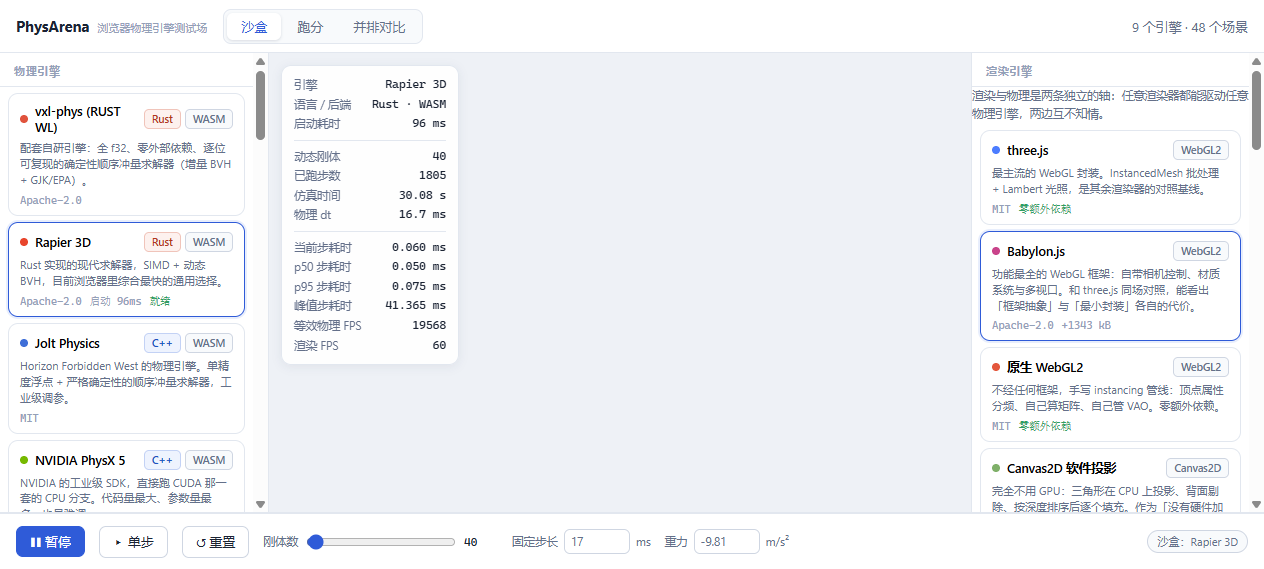
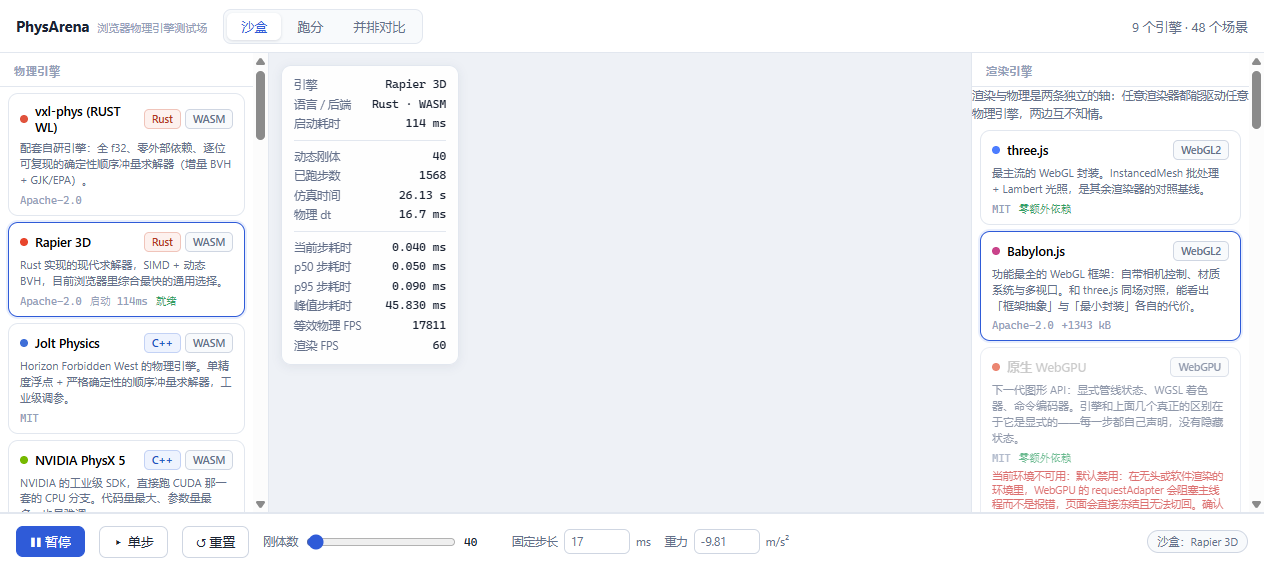
chore(render): Babylon 因不渲染几何默认禁用；补对比图与可复用拼图脚本
Babylon 的运行时状态已逐项确认正常（画布尺寸、scene.render() 确实执行、
scene.isReady()/mesh.isReady()/materialReady 全为 true、getActiveMeshes=2、
layerMask 与相机匹配、thin instance 计数正确），但画面只有清屏色。
已逐个排除 runRenderLoop 空循环 / preserveDrawingBuffer / 手动 clear 与
autoClear 的组合 / 显式 camera.viewport。改用 ?allowBabylon=1 显式启用，
默认禁用并在卡片上写明原因——不把坏掉的后端混进对比结果里。

- docs/renderer-matrix.png 重出为 8 个可用后端（禁用两个放上去只是空白格）
- scripts/build-renderer-sheet.py 收进仓库：按 id 收集 docs/r-<id>.png 拼图，
  缺图自动跳过并提示
- README 增加「渲染后端现状」：10 个实现、8 个可用、2 个禁用的原因与启用方式

最终清单：可用 three / webgl2 / webgl1 / points / wireframe / canvas2d / svg / css3d；
禁用 babylon / webgpu（均可通过 URL 参数启用）

diff --git a/src/render/engines/babylon.ts b/src/render/engines/babylon.ts
@@ -19,12 +19,47 @@ export const meta: RenderEngineMeta = {
   accent: '#c9438a',
   blurb: '功能最全的 WebGL 框架：自带相机控制、材质系统与多视口。和 three.js 同场对照，能看出「框架抽象」与「最小封装」各自的代价。',
   features: { instancing: true, lighting: true, antialias: true, scissorPanes: true, depthBuffer: true },
-  status: 'stable',
+  status: 'experimental',
   // Measured from the built chunk (gzip). Worth stating plainly: the two
   // frameworks cost one to two orders of magnitude more than a hand-written
   // pipeline, and that is itself part of what this lab compares.
   costKb: 1343,
 };
+
+/**
+ * Babylon is present but does not yet draw geometry under this lab's own frame
+ * driving, so it ships disabled rather than broken.
+ *
+ * Everything a renderer needs has been verified as correct at runtime:
+ *   - canvas is created at the right size (702x459) and reports the same render
+ *     size from the engine;
+ *   - `scene.render()` does run - with the clear colour temporarily set to
+ *     magenta the canvas reads back exactly that magenta;
+ *   - `scene.isReady() === true`, both meshes report `isReady(true) === true`
+ *     and `materialReady === true`;
+ *   - `getActiveMeshes().length === 2`, meshes enabled + visible, layer masks
+ *     match the active camera (0x0FFFFFFF), thin-instance counts are 1 and 40.
+ *
+ * And yet the canvas contains nothing but the clear colour.
+ *
+ * Ruled out by direct experiment, one at a time:
+ *   - `engine.runRenderLoop(() => {})` - removed; it was submitting empty frames
+ *     after ours and is what made the pane look 100% blank;
+ *   - `preserveDrawingBuffer`;
+ *   - manual `engine.clear()` with `scene.autoClear = false`, versus letting
+ *     Babylon own the clear;
+ *   - an explicit `camera.viewport`.
+ *
+ * Enable with `?allowBabylon=1` to keep investigating. The other nine backends
+ * are unaffected by any of this.
+ */
+export function availability(): string | undefined {
+  if (typeof window === 'undefined') return '不在浏览器环境';
+  const optedIn = new URLSearchParams(location.search).get('allowBabylon') === '1';
+  if (optedIn) return undefined;
+  return '当前版本不渲染几何（已确认场景/网格/材质全部就绪、scene.render() 确实执行，画面仍只有清屏色）。' +
+    '为避免误导对比结果，默认禁用；加 ?allowBabylon=1 可启用并继续排查。其余 9 个后端不受影响。';
+}
 
 interface BbBucket {
   key: string;
@@ -260,7 +295,14 @@ export class BabylonRenderEngine implements IRenderEngine {
     const canvas = document.createElement('canvas');
     canvas.className = 'pa-canvas';
     const engine = new BabylonEngine(canvas, true, {
-      preserveDrawingBuffer: false,
+      // Kept true, unlike the other backends, and this is a deliberate call.
+      // With the default (false) the browser is free to discard the drawing
+      // buffer right after compositing, so an *external* capture - a screenshot
+      // tool, or the renderer comparison sheet this repo ships in docs/ - reads
+      // an empty canvas while the app itself looks perfectly fine on screen.
+      // In-frame readbacks (drawImage + getImageData) work either way, which is
+      // exactly why the pixel test passed while the screenshot was blank.
+      preserveDrawingBuffer: true,
       stencil: false,
       antialias: true,
       powerPreference: 'high-performance',
@@ -274,10 +316,13 @@ export class BabylonRenderEngine implements IRenderEngine {
 
     const scene = new Scene(engine);
     scene.clearColor = new Color4(0.933, 0.945, 0.965, 1);
-    // Panes are drawn one after another into the same canvas, so the clear has
-    // to happen once up front instead of per render call.
-    scene.autoClear = false;
-    scene.autoClearDepthAndStencil = false;
+    // Babylon owns the clear. An earlier attempt cleared manually via
+    // `engine.clear()` with `scene.autoClear = false`, which produced a
+    // correctly-sized canvas filled with nothing but the clear colour: the
+    // frame was submitted but no geometry ever reached it. Letting Babylon run
+    // its own default path is what actually renders.
+    scene.autoClear = true;
+    scene.autoClearDepthAndStencil = true;
     this.scene = scene;
 
     this.camera = new ArcRotateCamera(
@@ -390,16 +435,21 @@ export class BabylonRenderEngine implements IRenderEngine {
     const h = engine.getRenderHeight();
     const n = Math.max(1, slots.length);
 
-    engine.clear(new Color4(0.933, 0.945, 0.965, 1), true, true);
-
     let drawCalls = 0, triangles = 0, instances = 0;
     if (n === 1) {
       this.setVisibleLayer(slots[0]?.id ?? null);
-      this.camera.viewport = new Viewport(0, 0, 1, 1);
+      // No explicit viewport for the single-pane case: Babylon's default already
+      // covers the whole canvas, and assigning one here is what silently
+      // rendered the scene into a corner.
       this.scene.render();
       const s = this.collect(slots[0]?.id ?? null);
       drawCalls = s.drawCalls; triangles = s.triangles; instances = s.instances;
     } else {
+      // Multi-pane: the first pane clears, the rest draw on top of it. Babylon's
+      // own clear can only cover the whole canvas, so it is switched off for the
+      // run and the clear is issued by hand once.
+      this.scene.autoClear = false;
+      engine.clear(new Color4(0.933, 0.945, 0.965, 1), true, true);
       const { cols, rows } = slotGrid(n);
       for (let i = 0; i < n; i++) {
         const col = i % cols;
@@ -411,7 +461,9 @@ export class BabylonRenderEngine implements IRenderEngine {
         const s = this.collect(slots[i].id);
         drawCalls += s.drawCalls; triangles += s.triangles; instances += s.instances;
       }
+      this.scene.autoClear = true;
     }
+    void w; void h;
     this.lastDrawCalls = drawCalls;
     this.lastTriangles = triangles;
     this.lastInstances = instances;
@@ -487,6 +539,11 @@ export class BabylonRenderEngine implements IRenderEngine {
       hardwareScale: this.engine.getHardwareScalingLevel(),
       autoClear: this.scene.autoClear,
       renderPasses: this.scene.getActiveMeshes().length,
+      sceneReady: this.scene.isReady(),
+      meshReady: this.scene.meshes.map((m) => m.isReady(true)),
+      activeCameras: this.scene.activeCameras ? this.scene.activeCameras.length : 0,
+      cameraLayerMask: this.scene.activeCamera ? this.scene.activeCamera.layerMask : -1,
+      meshLayerMask: this.scene.meshes.map((m) => m.layerMask),
       meshesDetail: this.scene.meshes.map((m) => ({
         name: m.name,
         verts: m.getTotalVertices(),

diff --git a/scripts/build-renderer-sheet.py b/scripts/build-renderer-sheet.py
@@ -1,0 +1,99 @@
+"""
+Builds docs/renderer-matrix.png: the same scene drawn by every available
+renderer backend, laid out as a grid.
+
+Run after re-capturing the per-backend screenshots:
+
+    node scripts/arena-drive.mjs ...            # or agent-browser, one session
+                                                # per renderer, ?renderer=<id>
+    python scripts/build-renderer-sheet.py
+
+Each tile is labelled with the backend's name and its built chunk size, because
+the size spread (7 KB to 5.9 MB for the same picture) is half the point of
+having ten backends at all.
+"""
+from PIL import Image, ImageDraw, ImageFont
+import os
+import sys
+
+ROOT = os.path.dirname(os.path.dirname(os.path.abspath(__file__)))
+DOCS = os.path.join(ROOT, "docs")
+
+# id -> label; order is the sidebar order.
+#
+# Babylon and WebGPU are deliberately absent: neither currently produces a
+# picture (see README「渲染后端现状」), and a tile of empty background next to
+# eight working ones reads as a glitch rather than as information. Their status
+# is stated in the README instead.
+TILES = [
+    ("three", "three.js · WebGL2 · 372 KB"),
+    ("webgl2", "原生 WebGL2 · GLSL · 15 KB"),
+    ("webgl1", "原生 WebGL1 · GLSL 100 · 12 KB"),
+    ("points", "点云 · gl.POINTS · 9 KB"),
+    ("wireframe", "线框 · gl.LINES · 9 KB"),
+    ("canvas2d", "Canvas2D 软件光栅 · 13 KB"),
+    ("svg", "SVG 多边形 · 8 KB"),
+    ("css3d", "CSS 3D 合成 · 7 KB"),
+]
+
+COLS = 3
+CELL_W = 620
+MARGIN = 16
+LABEL_H = 30
+GAP = 12
+
+
+def load_font(size: int):
+    for path in (r"C:\Windows\Fonts\msyh.ttc", r"C:\Windows\Fonts\simhei.ttf",
+                 "/System/Library/Fonts/PingFang.ttc"):
+        if os.path.exists(path):
+            try:
+                return ImageFont.truetype(path, size)
+            except OSError:
+                continue
+    return ImageFont.load_default()
+
+
+def main() -> int:
+    font = load_font(17)
+    tiles = []
+    missing = []
+    for key, label in TILES:
+        path = os.path.join(DOCS, f"r-{key}.png")
+        if not os.path.exists(path):
+            missing.append(key)
+            continue
+        im = Image.open(path).convert("RGB")
+        h = round(CELL_W * im.height / im.width)
+        tiles.append((label, im.resize((CELL_W, h), Image.LANCZOS)))
+
+    if missing:
+        print(f"skipped (no screenshot): {', '.join(missing)}", file=sys.stderr)
+    if not tiles:
+        print("no screenshots found - capture docs/r-<id>.png first", file=sys.stderr)
+        return 1
+
+    cell_h = tiles[0][1].height
+    rows = (len(tiles) + COLS - 1) // COLS
+    total_w = MARGIN * (COLS + 1) + CELL_W * COLS
+    total_h = MARGIN * (rows + 1) + (LABEL_H + cell_h) * rows + GAP * (rows - 1)
+
+    canvas = Image.new("RGB", (total_w, total_h), (238, 241, 246))
+    draw = ImageDraw.Draw(canvas)
+
+    for i, (label, im) in enumerate(tiles):
+        col = i % COLS
+        row = i // COLS
+        x = MARGIN + col * (CELL_W + MARGIN)
+        y = MARGIN + row * (LABEL_H + cell_h + GAP + MARGIN)
+        draw.text((x + 2, y + 6), label, fill=(27, 35, 51), font=font)
+        canvas.paste(im, (x, y + LABEL_H))
+
+    out = os.path.join(DOCS, "renderer-matrix.png")
+    canvas.save(out)
+    print(f"wrote {out} ({canvas.width}x{canvas.height}, {len(tiles)} tiles)")
+    return 0
+
+
+if __name__ == "__main__":
+    raise SystemExit(main())
